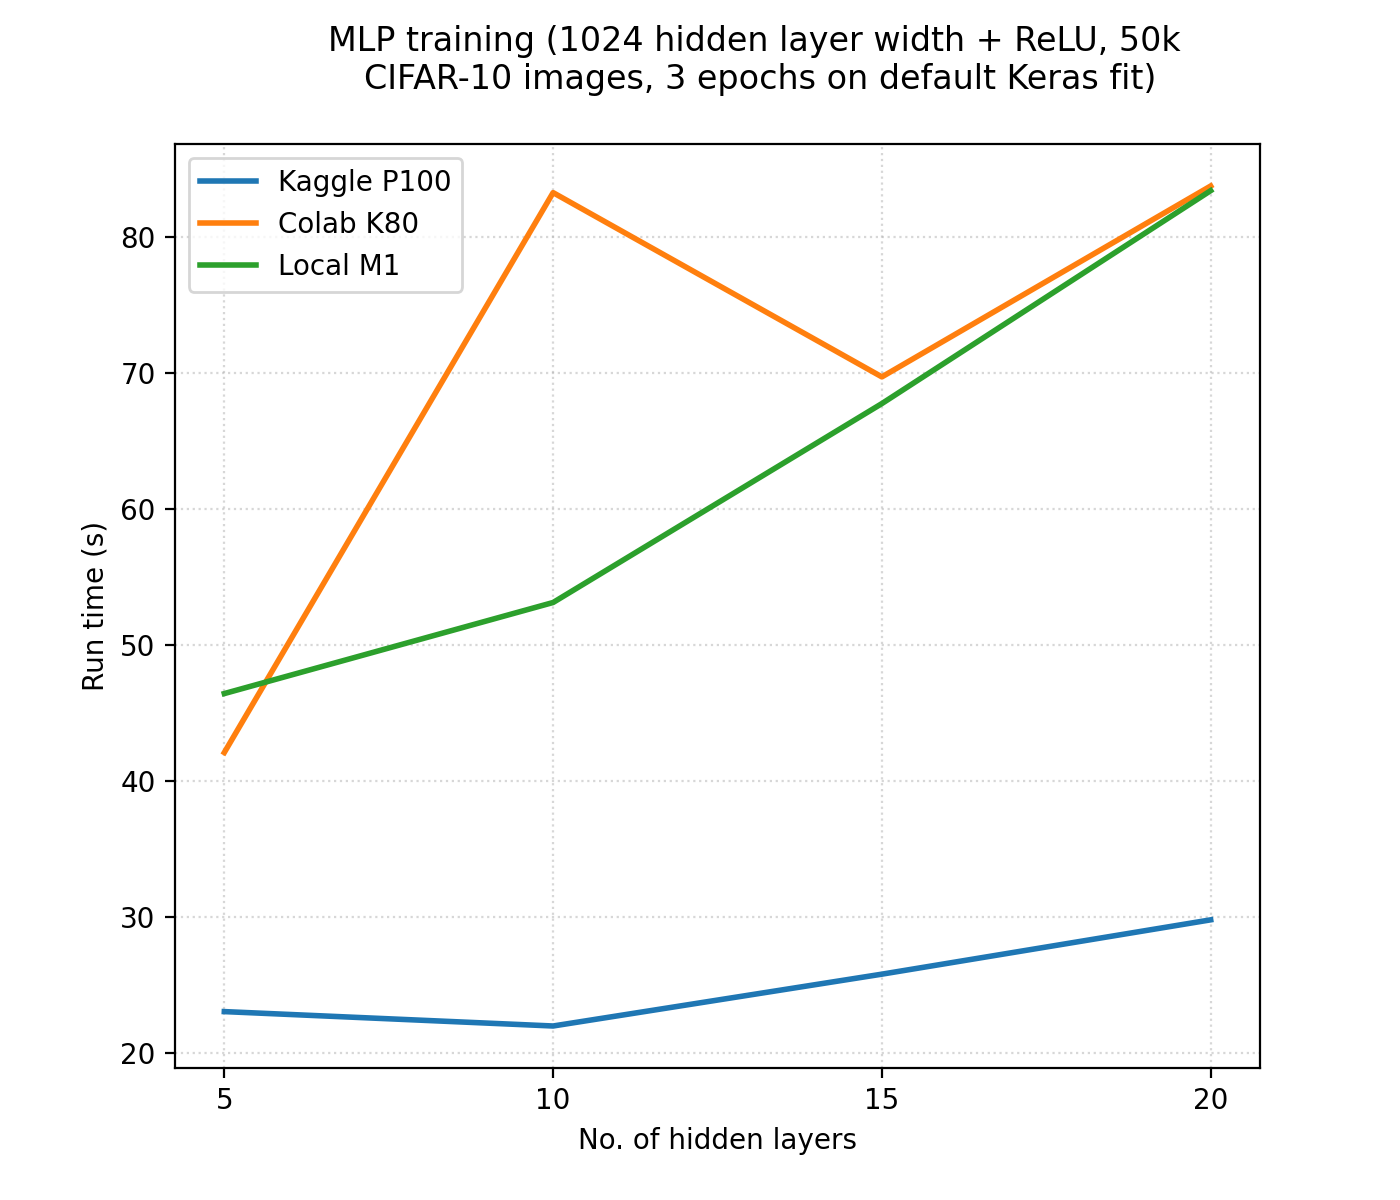
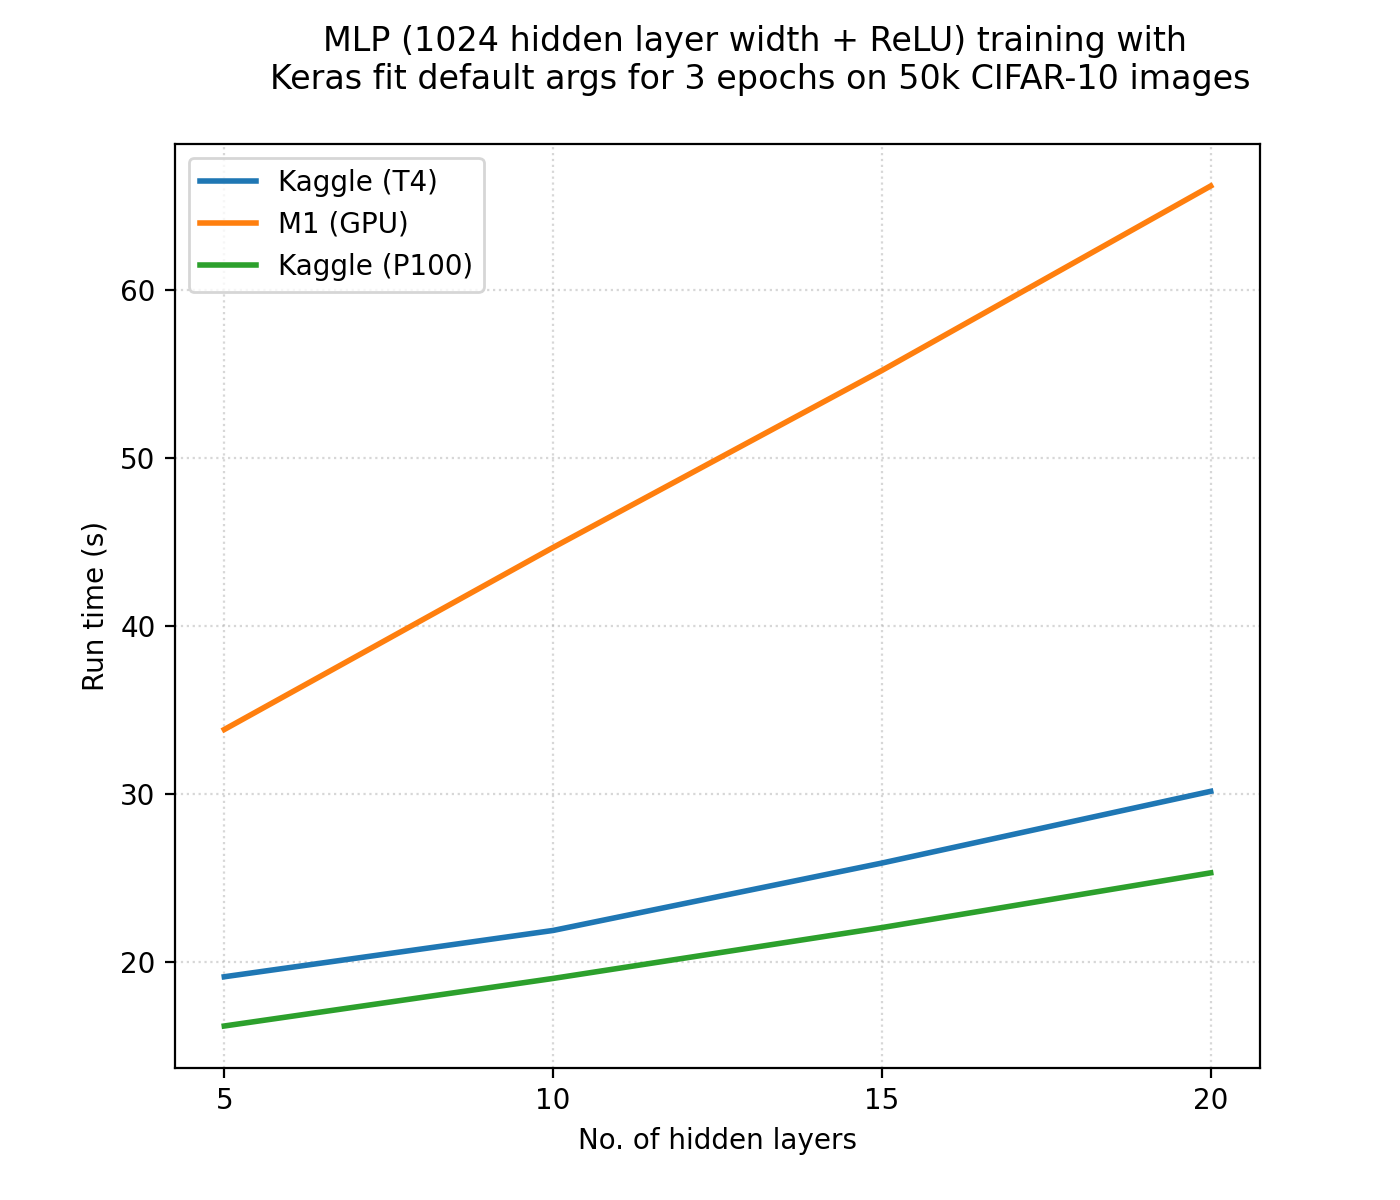
use process_time and rerun on kaggle gpus

diff --git a/benchmarks.py b/benchmarks.py
@@ -35,8 +35,8 @@ class MLPBenchmark:
     index = [5, 10, 15, 20]
     index_name = "No. of hidden layers"
     description = """
-        MLP training (1024 hidden layer width + ReLU, 50k 
-        CIFAR-10 images, 3 epochs on default Keras fit)
+        MLP (1024 hidden layer width + ReLU) training with 
+        Keras fit default args for 3 epochs on 50k CIFAR-10 images
     """
 
     def setup(self, depth: int):
@@ -55,13 +55,12 @@ class MLPBenchmark:
         self.model.fit(X, y, epochs=3)
 
 
-
 class VGGBenchmark:
     index = ['VGG11', 'VGG16', 'VGG19']
     index_name = ''
     description = """
-        VGG training on 50k CIFAR-10 images for 3 
-        epochs using default Keras fit arguments.
+        VGG training on 50k CIFAR-10 images 
+        with Keras fit default args for 3 epochs 
     """
 
     @staticmethod
@@ -108,15 +107,12 @@ class VGGBenchmark:
         self.model = VGGBenchmark.vgg(self.conv_arch[index])
         self.model.compile(
             optimizer='SGD', 
-            loss='categorical_crossentropy', 
+            loss='sparse_categorical_crossentropy', 
             metrics=['accuracy']
         )
 
     def run(self):
-        self.model.fit(
-            X, tf.keras.utils.to_categorical(y, num_classes=10, dtype='float32'), 
-            epochs=3
-        )
+        self.model.fit(X, y, epochs=3)
 
 
 # Feel free to extend the collection of benchmarks!

diff --git a/run.py b/run.py
@@ -1,10 +1,10 @@
 import glob
-import time
 import pandas as pd
 import tensorflow as tf
 import matplotlib.pyplot as plt
 
 from tqdm import tqdm
+from time import process_time
 from benchmarks import benchmarks
 
 
@@ -25,8 +25,14 @@ def plot_results(task: str):
     plt.tight_layout()
 
 
+def time_task(benchmark):
+    time_start = process_time()
+    benchmark.run()
+    time_stop = process_time()
+    return time_stop - time_start
+
+
 def run(compute: str, task: str) -> None:
-    
     if task not in benchmarks.keys():
         raise ValueError(
             f"Task not found. Choose from: {list(benchmarks.keys())}.")
@@ -35,9 +41,7 @@ def run(compute: str, task: str) -> None:
         results = {}
         for j in tqdm(bench.index):
             bench.setup(j)
-            start_time = time.time()
-            bench.run()
-            results[j] = [time.time() - start_time]
+            results[j] = [time_task(bench)]
 
         # Save results to disk
         pd.DataFrame(results).to_csv(f'results/{task}/{compute}.csv', index=False)
@@ -45,7 +49,6 @@ def run(compute: str, task: str) -> None:
 
 if __name__ == "__main__":
     import argparse
-
     parser = argparse.ArgumentParser()
     parser.add_argument("compute")
     parser.add_argument("task")
